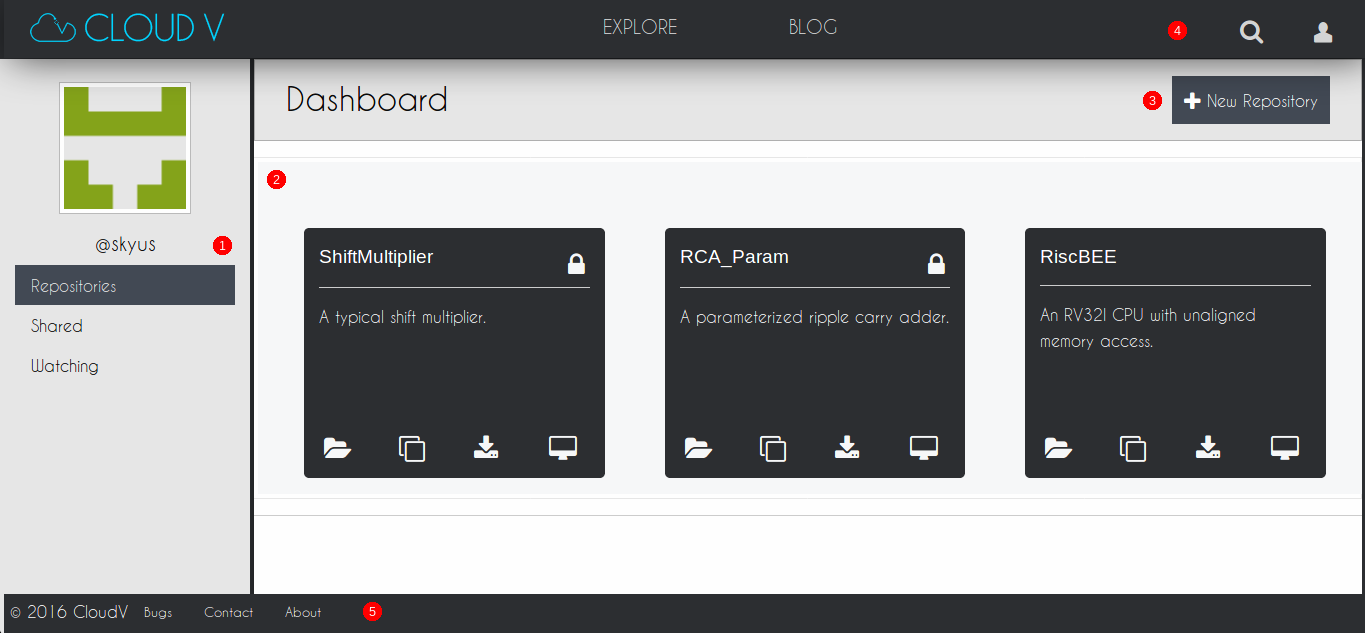
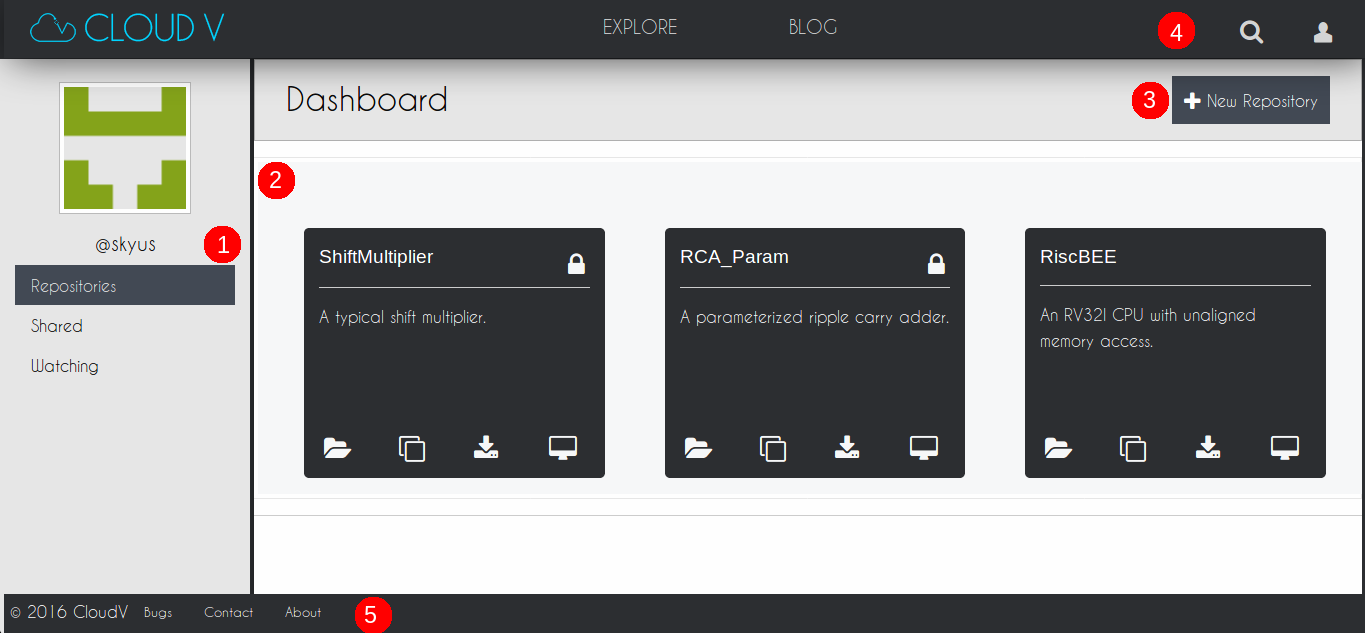
Fixed Dashboard Help

diff --git a/README.md b/README.md
@@ -1,4 +1,4 @@
 [![Cloud V](Resources/logo.png)](https://cloudv.io)
 ## Documentation
 
-This repository hosts Cloud V's documentation in its wiki. If you're looking for help, you came to the right place.
+This repository is intended to host documentation for Cloud V. Well, the resources for it. The actual documentation is in the Wiki.
